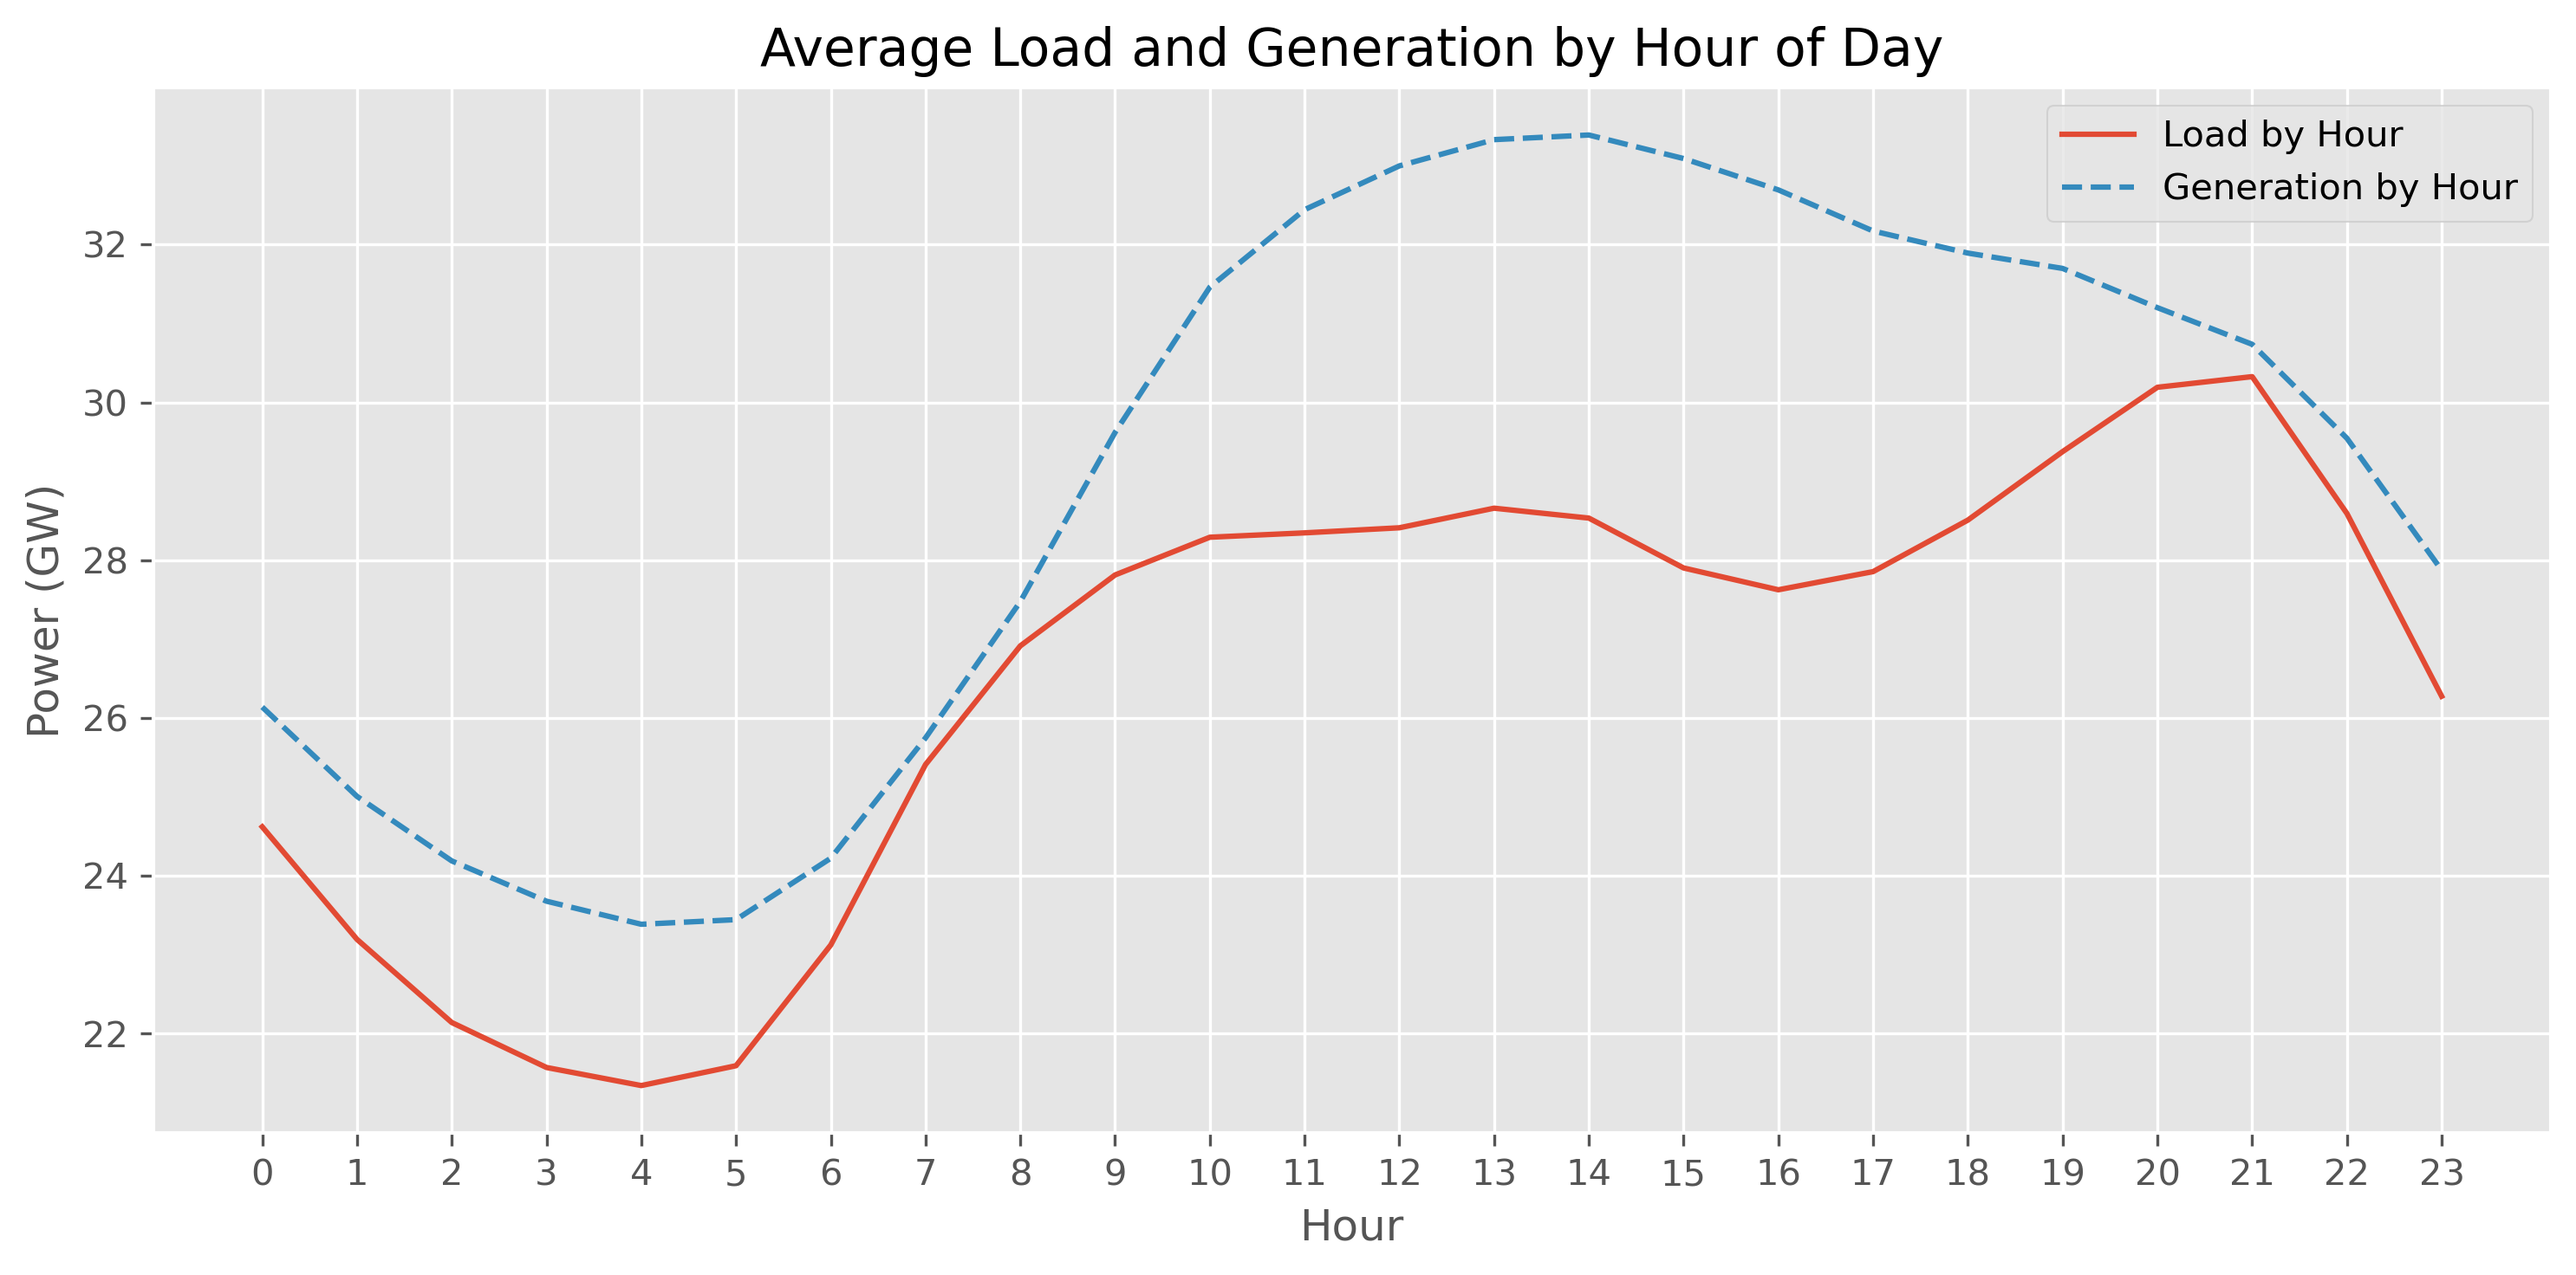
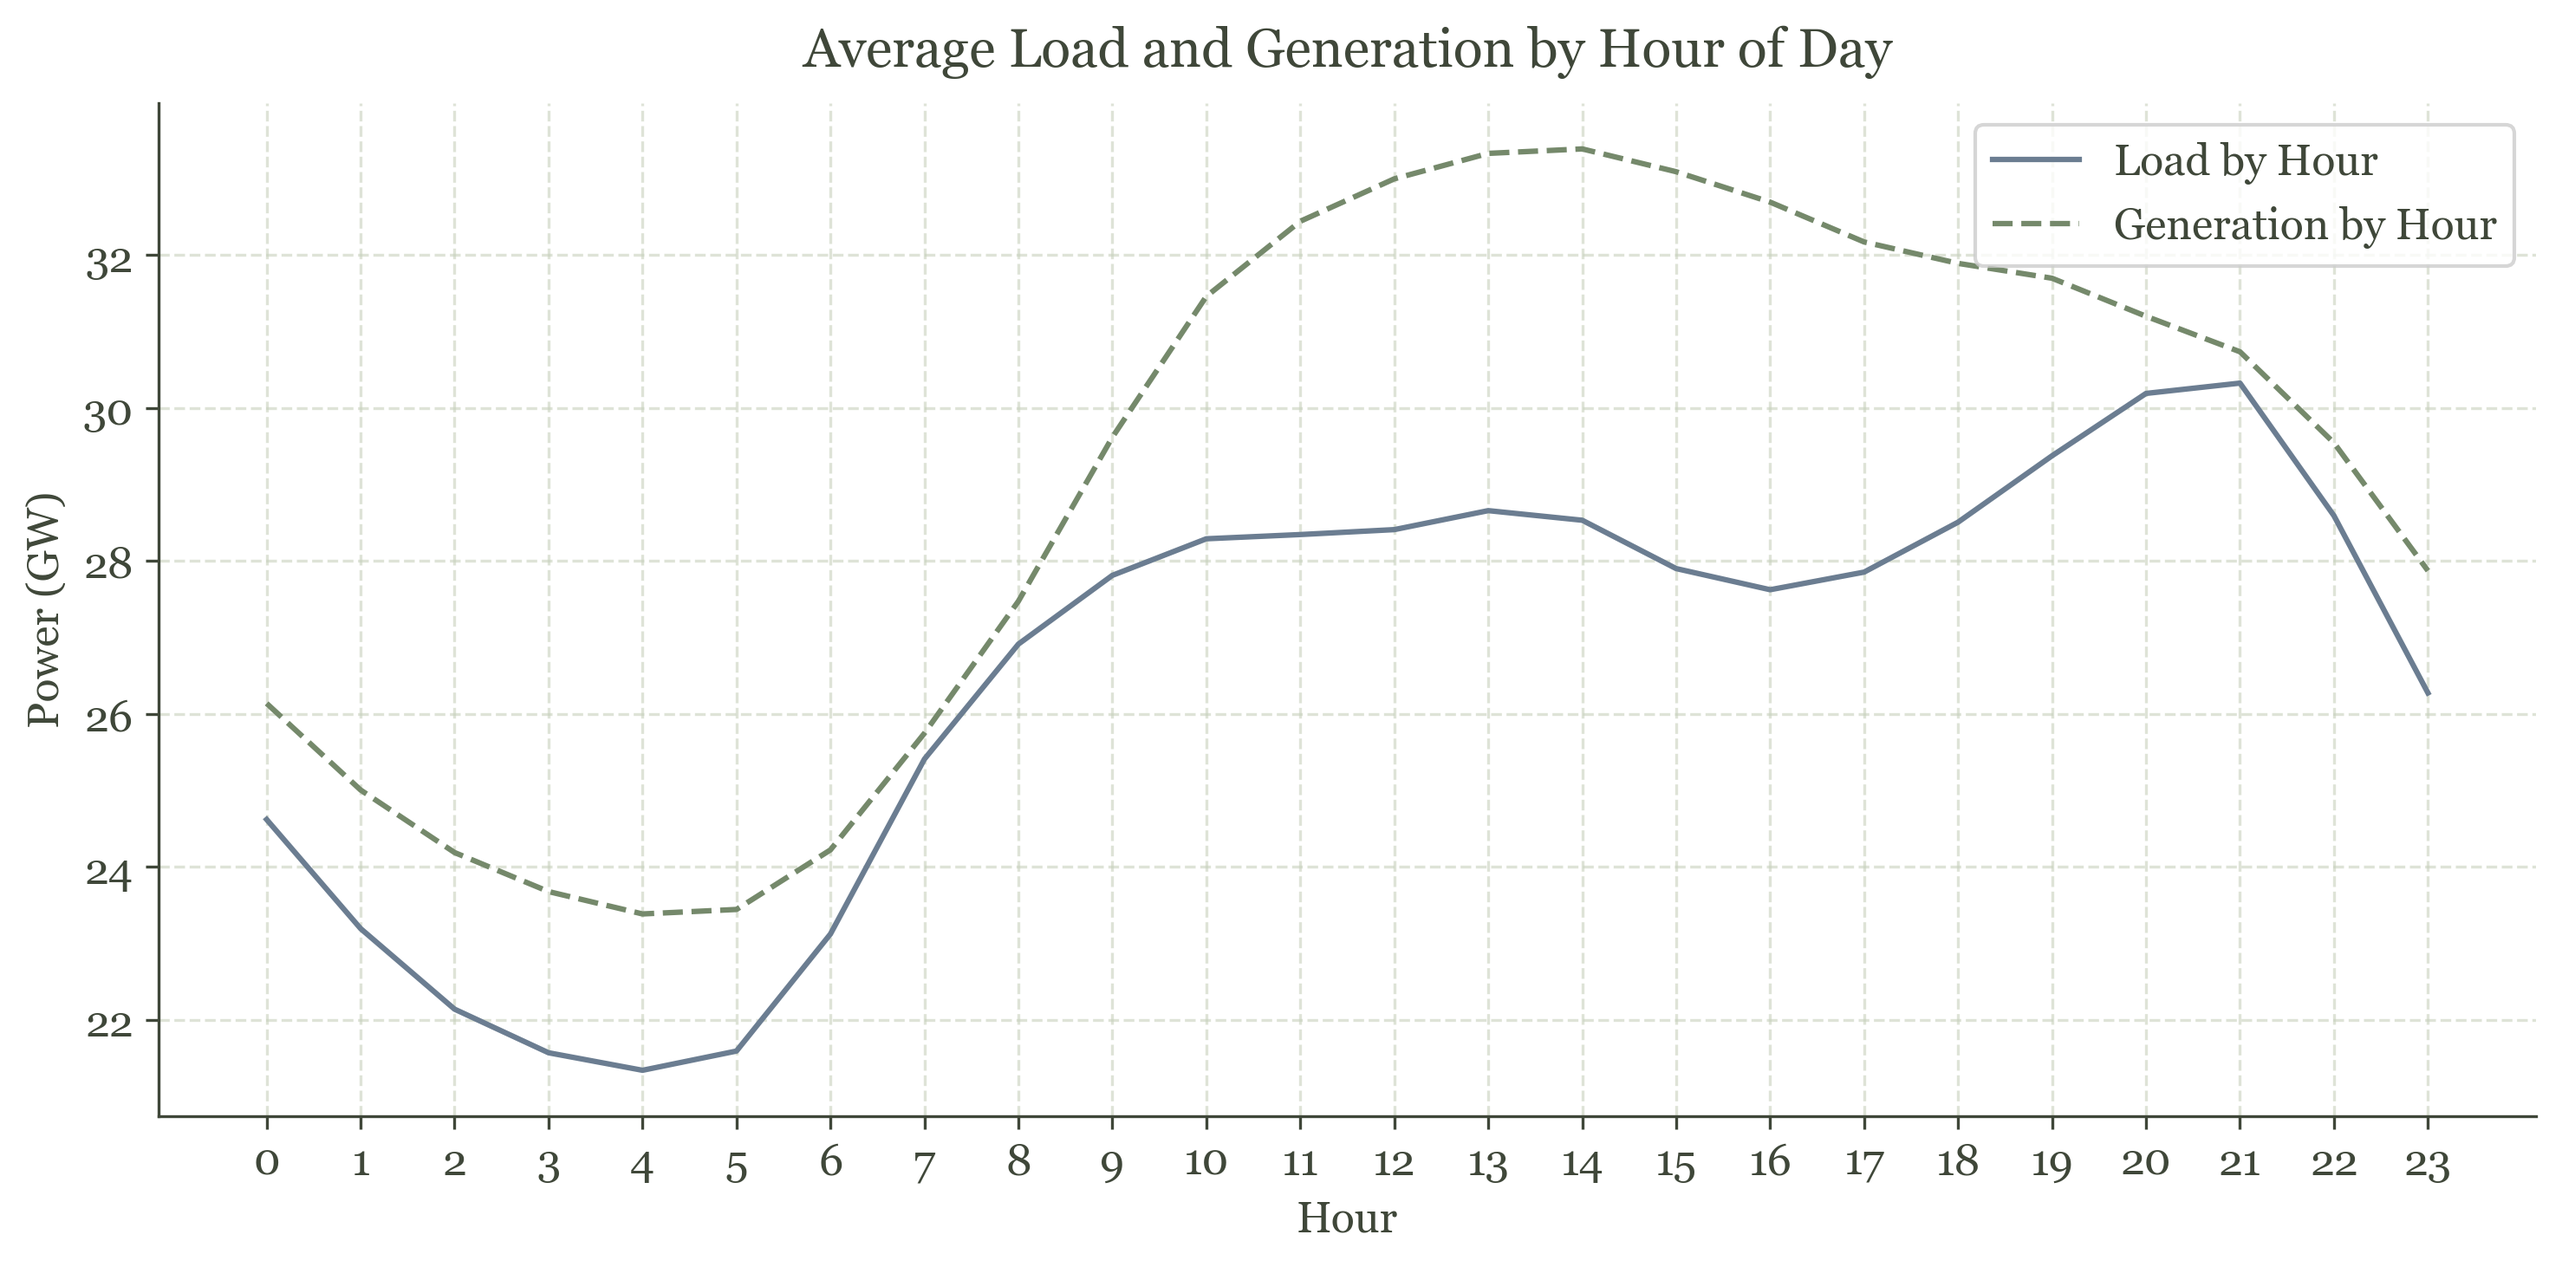
EDA_Adv.py helps visualize the before and after of removing =<1% of generation types and follows consistent color palette.

diff --git a/EDA_Adv.py b/EDA_Adv.py
@@ -1,8 +1,40 @@
 import pandas as pd
 import matplotlib.pyplot as plt
 import seaborn as sns
+import os
+import matplotlib.ticker as mtick
 
-plt.style.use("ggplot")
+# --- Muted color palette centered on #75896b ---
+palette = {
+    "primary": "#75896b",  # key tone
+    "blue":    "#6b7d91",
+    "red":     "#a06b6b",
+    "purple":  "#8a6b91",
+    "amber":   "#b09b6b"
+}
+
+# --- Global Matplotlib style update ---
+plt.rcParams.update({
+    "font.family": "serif",
+    "font.serif": ["Georgia", "DejaVu Serif", "Garamond"],
+    "font.size": 12,
+    "axes.titlesize": 15,
+    "axes.labelsize": 12,
+    "axes.edgecolor": "#3f4739",
+    "axes.labelcolor": "#3f4739",
+    "xtick.color": "#3f4739",
+    "ytick.color": "#3f4739",
+    "text.color": "#3f4739",
+    "axes.titlepad": 10,
+    "grid.color": "#c8d1bd",
+    "grid.alpha": 0.6,
+    "grid.linestyle": "--",
+    "axes.spines.top": False,
+    "axes.spines.right": False,
+    "figure.facecolor": "white",
+    "axes.facecolor": "white",
+})
+sns.set_palette([palette["primary"], palette["blue"], palette["red"], palette["purple"], palette["amber"]])
 
 # 1. Load datasets
 df_load = pd.read_csv("Load Data/TotalLoadDayAhead_Hour_2022_2024_combined.csv", parse_dates=["datetime"])
@@ -29,14 +61,13 @@ daily_types = df_types.resample('D').mean(numeric_only=True)/1000
 # Remove low-impact generation types (less than 1% of total energy)
 total_energy = daily_types.sum()
 share = total_energy / total_energy.sum()
-daily_types = daily_types.loc[:, share >= 0.01]
+daily_types_clean = daily_types.loc[:, share >= 0.01]
 
-#Plot daily Load & Generation
-
+# --- Daily Load vs Generation ---
 plt.figure(figsize=(14, 5))
-plt.plot(daily_load.index, daily_load["Actual Total Load (MW)"], label="Actual Load")
-plt.plot(daily_load.index, daily_load["Day-ahead Total Load Forecast (MW)"], label="Forecast Load", linestyle='--')
-plt.plot(daily_gen.index, daily_gen["Average_Hourly_Generation"], label="Total Generation", alpha=0.7)
+plt.plot(daily_load.index, daily_load["Actual Total Load (MW)"], label="Actual Load", color=palette["blue"])
+plt.plot(daily_load.index, daily_load["Day-ahead Total Load Forecast (MW)"], label="Forecast Load", linestyle='--', color=palette["red"])
+plt.plot(daily_gen.index, daily_gen["Average_Hourly_Generation"], label="Total Generation", alpha=0.8, color=palette["primary"])
 plt.title("Daily Load vs Forecast vs Total Generation")
 plt.xlabel("Date")
 plt.ylabel("Power (GW)")
@@ -45,11 +76,8 @@ plt.tight_layout()
 plt.savefig("plots/daily_load_vs_gen.png", dpi=300, bbox_inches='tight')
 plt.show()
 
-
-#Generation by type (stacked area chart)
-
-#daily_types_sorted = daily_types[daily_types.columns.sort_values()]  # optional sort
-daily_types.plot.area(stacked=True, figsize=(14, 6), alpha=0.85)
+# --- Generation by Type (Stacked Area) ---
+daily_types_clean.plot.area(stacked=True, figsize=(14, 6), alpha=0.9, colormap="Accent")
 plt.title("Daily Generation by Type (Stacked Area)")
 plt.xlabel("Date")
 plt.ylabel("Power (GW)")
@@ -57,18 +85,75 @@ plt.tight_layout()
 plt.savefig("plots/gen_type.png", dpi=300, bbox_inches='tight')
 plt.show()
 
+# --- Generation shares (overall + over time) ---
+os.makedirs("plots", exist_ok=True)
 
-#Monthly average
+# Keep only the columns that survived low-impact filter
+types_hourly = df_types.resample("h").mean(numeric_only=True).fillna(0)
+types_hourly_clean = types_hourly[daily_types_clean.columns]
+
+# Overall share across the whole period
+energy_MWh = types_hourly.sum()
+share_overall = (energy_MWh / energy_MWh.sum()).sort_values(ascending=False)
+energy_MWh_clean = types_hourly_clean.sum()
+share_overall_clean = (energy_MWh_clean / energy_MWh_clean.sum()).sort_values(ascending=False)
+
+# Bar chart of overall shares
+plt.figure(figsize=(12, 5))
+share_overall.plot(kind="bar", color=palette["primary"])
+plt.gca().yaxis.set_major_formatter(mtick.PercentFormatter(xmax=1.0))
+plt.ylabel("Share of Total Generation")
+plt.title("Generation Mix Share (entire period)")
+plt.tight_layout()
+plt.savefig("plots/generation_share_bar.png", dpi=300, bbox_inches="tight")
+plt.show()
+
+# Bar chart of overall shares (clean)
+plt.figure(figsize=(12, 5))
+share_overall_clean.plot(kind="bar", color=palette["primary"])
+plt.gca().yaxis.set_major_formatter(mtick.PercentFormatter(xmax=1.0))
+plt.ylabel("Share of Total Generation")
+plt.title("Clean Generation Mix Share (entire period)")
+plt.tight_layout()
+plt.savefig("plots/generation_share_bar_clean.png", dpi=300, bbox_inches="tight")
+plt.show()
+
+# Pie chart
+plt.figure(figsize=(7, 7))
+share_overall.plot(kind="pie", autopct="%1.1f%%", colors=[palette["primary"], palette["blue"], palette["red"], palette["purple"], palette["amber"]], ylabel="")
+plt.title("Generation Mix Share (entire period)")
+plt.tight_layout()
+plt.savefig("plots/generation_share_pie.png", dpi=300, bbox_inches="tight")
+plt.show()
+
+# Pie chart (clean)
+plt.figure(figsize=(7, 7))
+share_overall_clean.plot(kind="pie", autopct="%1.1f%%", colors=[palette["primary"], palette["blue"], palette["red"], palette["purple"], palette["amber"]], ylabel="")
+plt.title("Clean Generation Mix Share (entire period)")
+plt.tight_layout()
+plt.savefig("plots/generation_share_pie_clean.png", dpi=300, bbox_inches="tight")
+plt.show()
+
+# --- Time-varying share (weekly) ---
+weekly_mean = types_hourly_clean.resample("W").mean()
+weekly_share_pct = weekly_mean.div(weekly_mean.sum(axis=1), axis=0) * 100
+weekly_share_pct.plot.area(stacked=True, figsize=(14, 6), alpha=0.9, colormap="Accent")
+plt.ylabel("Share of Total Generation (%)")
+plt.xlabel("Date")
+plt.title("Generation Mix Share Over Time (weekly)")
+plt.tight_layout()
+plt.savefig("plots/generation_share_over_time.png", dpi=300, bbox_inches="tight")
+plt.show()
+
+# --- Monthly averages ---
 monthly_load = df_load.resample('ME').mean()/1000
 monthly_gen = df_gen.resample('ME').mean()/1000
-
 monthly = pd.DataFrame({
     "Actual Load": monthly_load["Actual Total Load (MW)"],
     "Forecast Load": monthly_load["Day-ahead Total Load Forecast (MW)"],
     "Total Generation": monthly_gen["Average_Hourly_Generation"]
 })
-
-monthly.plot(kind='bar', figsize=(14, 6))
+monthly.plot(kind='bar', figsize=(14, 6), color=[palette["blue"], palette["amber"], palette["primary"]])
 plt.title("Monthly Average: Load and Generation")
 plt.ylabel("Power (GW)")
 plt.xticks(rotation=45)
@@ -76,18 +161,15 @@ plt.tight_layout()
 plt.savefig("plots/monthly_gen_load.png", dpi=300, bbox_inches='tight')
 plt.show()
 
-
-#Peak Hour Analysis
-
+# --- Peak Hour Analysis ---
 df_load["hour"] = df_load.index.hour
 df_gen["hour"] = df_gen.index.hour
-
 load_by_hour = df_load.groupby("hour")[["Actual Total Load (MW)"]].mean()/1000
 gen_by_hour = df_gen.groupby("hour")[["Average_Hourly_Generation"]].mean()/1000
 
 plt.figure(figsize=(10, 5))
-plt.plot(load_by_hour.index, load_by_hour["Actual Total Load (MW)"], label="Load by Hour")
-plt.plot(gen_by_hour.index, gen_by_hour["Average_Hourly_Generation"], label="Generation by Hour", linestyle="--")
+plt.plot(load_by_hour.index, load_by_hour["Actual Total Load (MW)"], label="Load by Hour", color=palette["blue"])
+plt.plot(gen_by_hour.index, gen_by_hour["Average_Hourly_Generation"], label="Generation by Hour", linestyle="--", color=palette["primary"])
 plt.title("Average Load and Generation by Hour of Day")
 plt.xlabel("Hour")
 plt.ylabel("Power (GW)")
@@ -98,17 +180,15 @@ plt.tight_layout()
 plt.savefig("plots/Peak_analysis.png", dpi=300, bbox_inches='tight')
 plt.show()
 
-
-#Correlation heatmap
-#When one variable changes, how likely is the other to change with it, and in which direction
-
-# Clean data: drop columns that are all NaN or constant
-daily_types_clean = daily_types.dropna(axis=1, how='all')  # remove empty columns
-daily_types_clean = daily_types_clean.loc[:, daily_types_clean.std() > 0.01]  # remove columns with no variation
-
+# --- Correlation Heatmap ---
 plt.figure(figsize=(12, 10))
 corr = daily_types_clean.corr()
-sns.heatmap(corr, annot=True, cmap="coolwarm", fmt=".2f")
+sns.heatmap(
+    corr, annot=True,
+    cmap=sns.diverging_palette(145, 15, as_cmap=True),  # gentle muted diverging palette
+    fmt=".2f",
+    linewidths=0.5
+)
 plt.title("Correlation Heatmap: Generation Types")
 plt.tight_layout()
 plt.savefig("plots/correlation_matrix.png", dpi=300, bbox_inches='tight')
